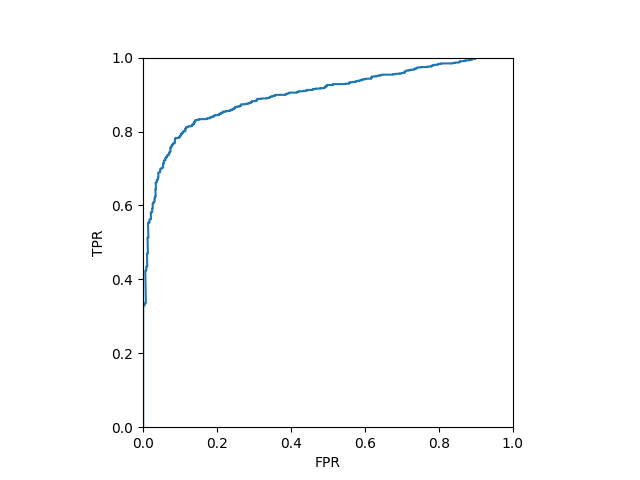
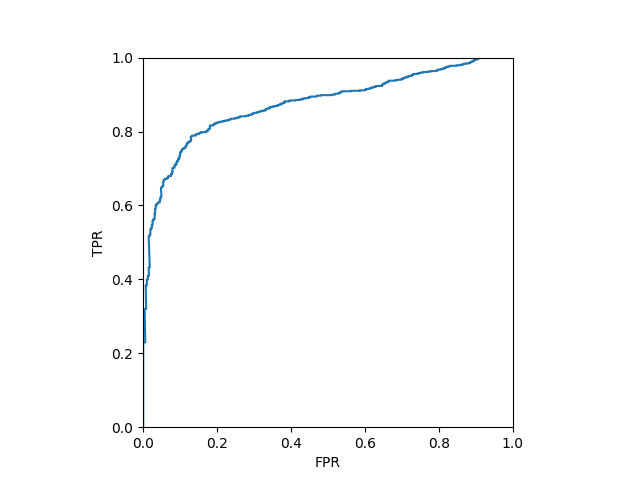
change

Changed region(s): [[0.2188, 0.125, 0.75, 0.6562], [0.2188, 0.6875, 0.25, 0.7188]]

diff --git a/logreg-sgd.py b/logreg-sgd.py
@@ -14,6 +14,7 @@ import sklearn.model_selection
 import sklearn.linear_model
 import sklearn.preprocessing
 from random import randint as rd
+from functools import cmp_to_key
 
 
 def load_train_test_data(train_ratio=0.5):
@@ -25,8 +26,10 @@ def load_train_test_data(train_ratio=0.5):
     # X = numpy.hstack((numpy.ones((X.shape[0],1)), X))
     y = numpy.asarray(data["y"])
 
+    random_state = rd(0, 4294967295)
+    # random_state = 0
     return sklearn.model_selection.train_test_split(
-        X, y, test_size=1 - train_ratio, random_state=rd(0, 4294967295)
+        X, y, test_size=1 - train_ratio, random_state=random_state
     )
 
 
@@ -74,6 +77,11 @@ def logreg_sgd(X, y, alpha=0.001, epochs=10000, eps=1e-4):
 def predict_prob(X, theta):
     return 1.0 / (1 + numpy.exp(-numpy.dot(X, theta)))
 
+def cmp(x, y):
+    if x[0] != y[0]:
+        return 1 if x[0] > y[0] else -1
+    else:
+        return 1 if x[1] > y[1] else -1
 
 def plot_roc_curve(y_test, y_prob):
     # TODO: compute tpr and fpr of different thresholds
@@ -103,7 +111,7 @@ def plot_roc_curve(y_test, y_prob):
     plt.gca().set_aspect("equal", adjustable="box")
     plt.savefig("roc_curve.png")
     # calculate AUC
-    fpr, tpr = zip(*sorted(zip(fpr, tpr), key=lambda x: x[0]))
+    fpr, tpr = zip(*sorted(zip(fpr, tpr), key=cmp_to_key(cmp)))
     nfpr, ntpr = [], []
     last = -1.0
     for i in range(len(fpr)):
